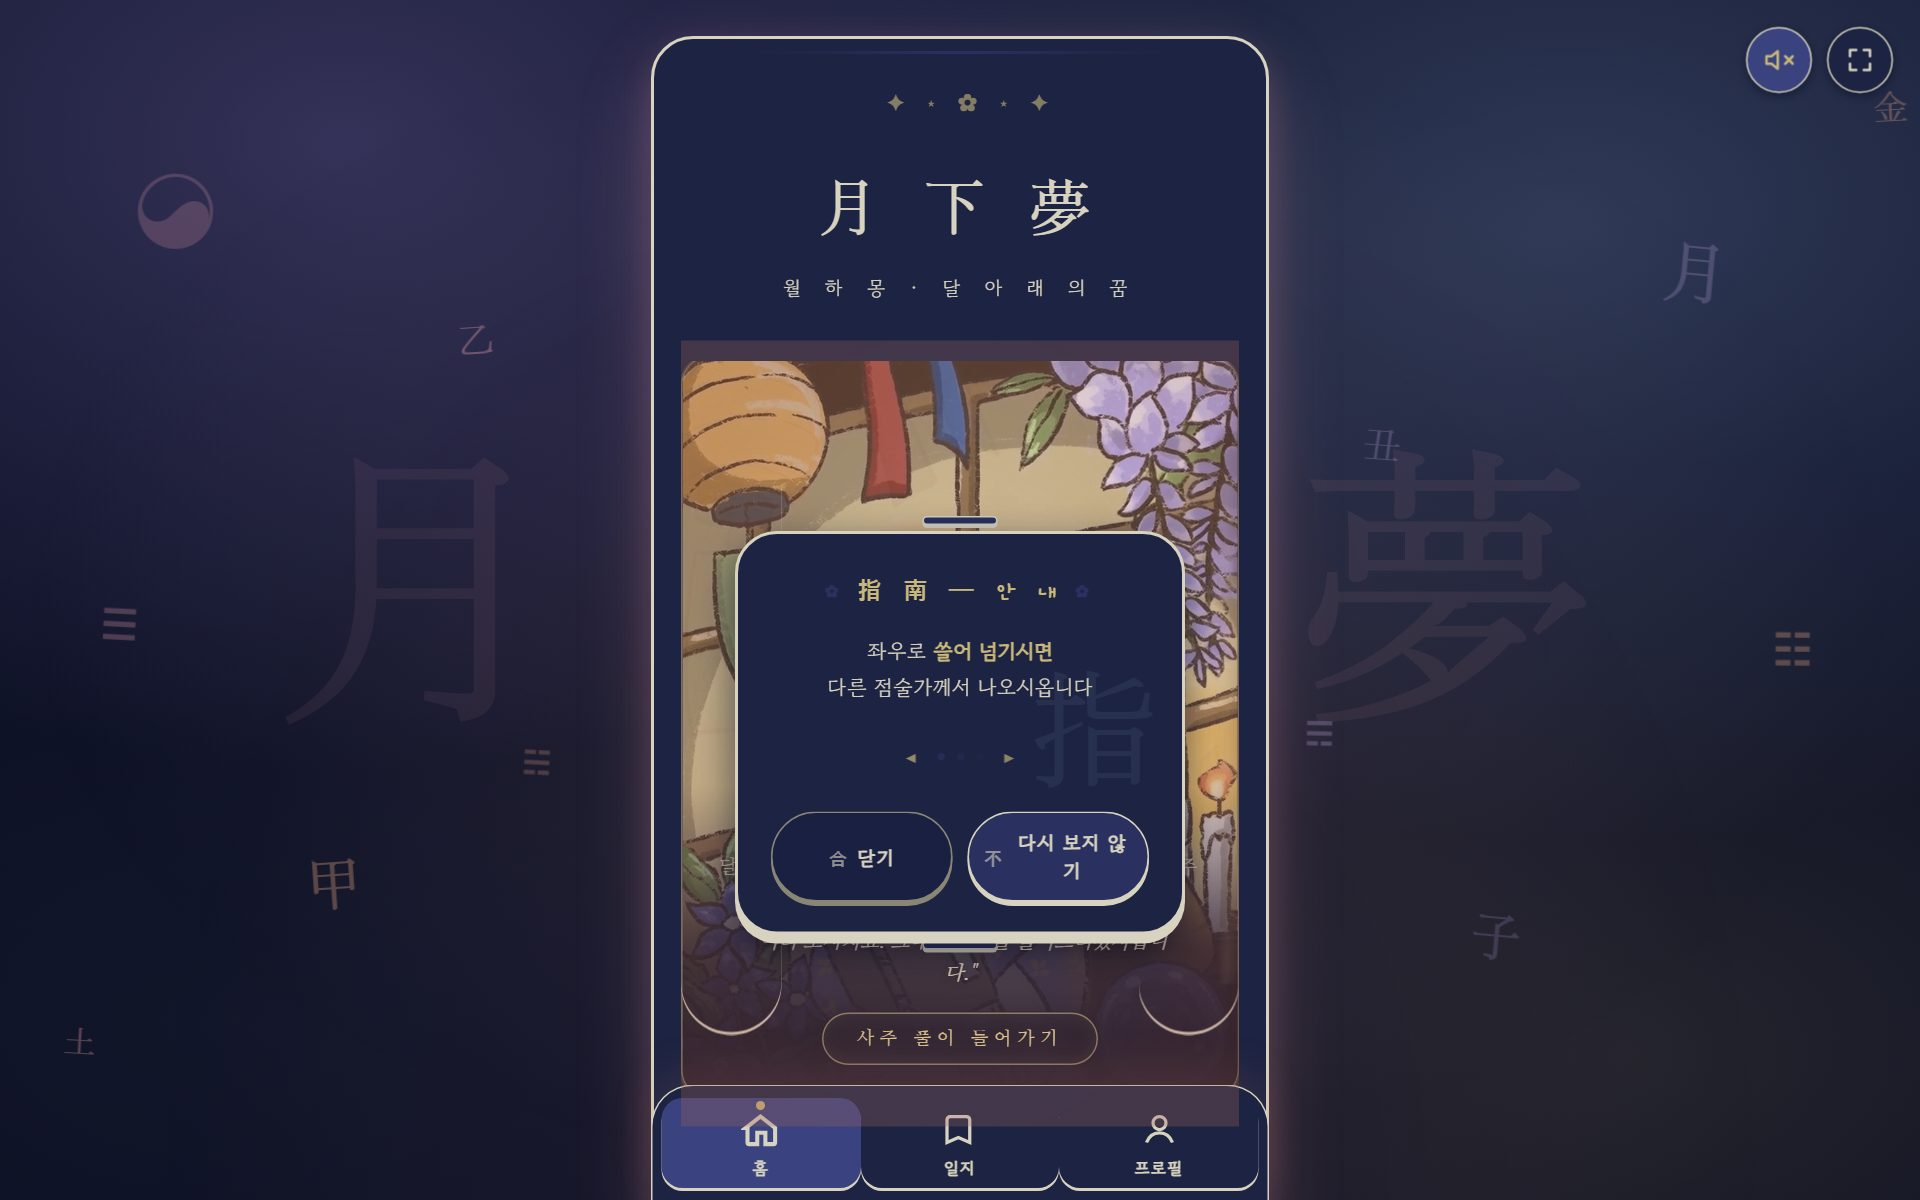
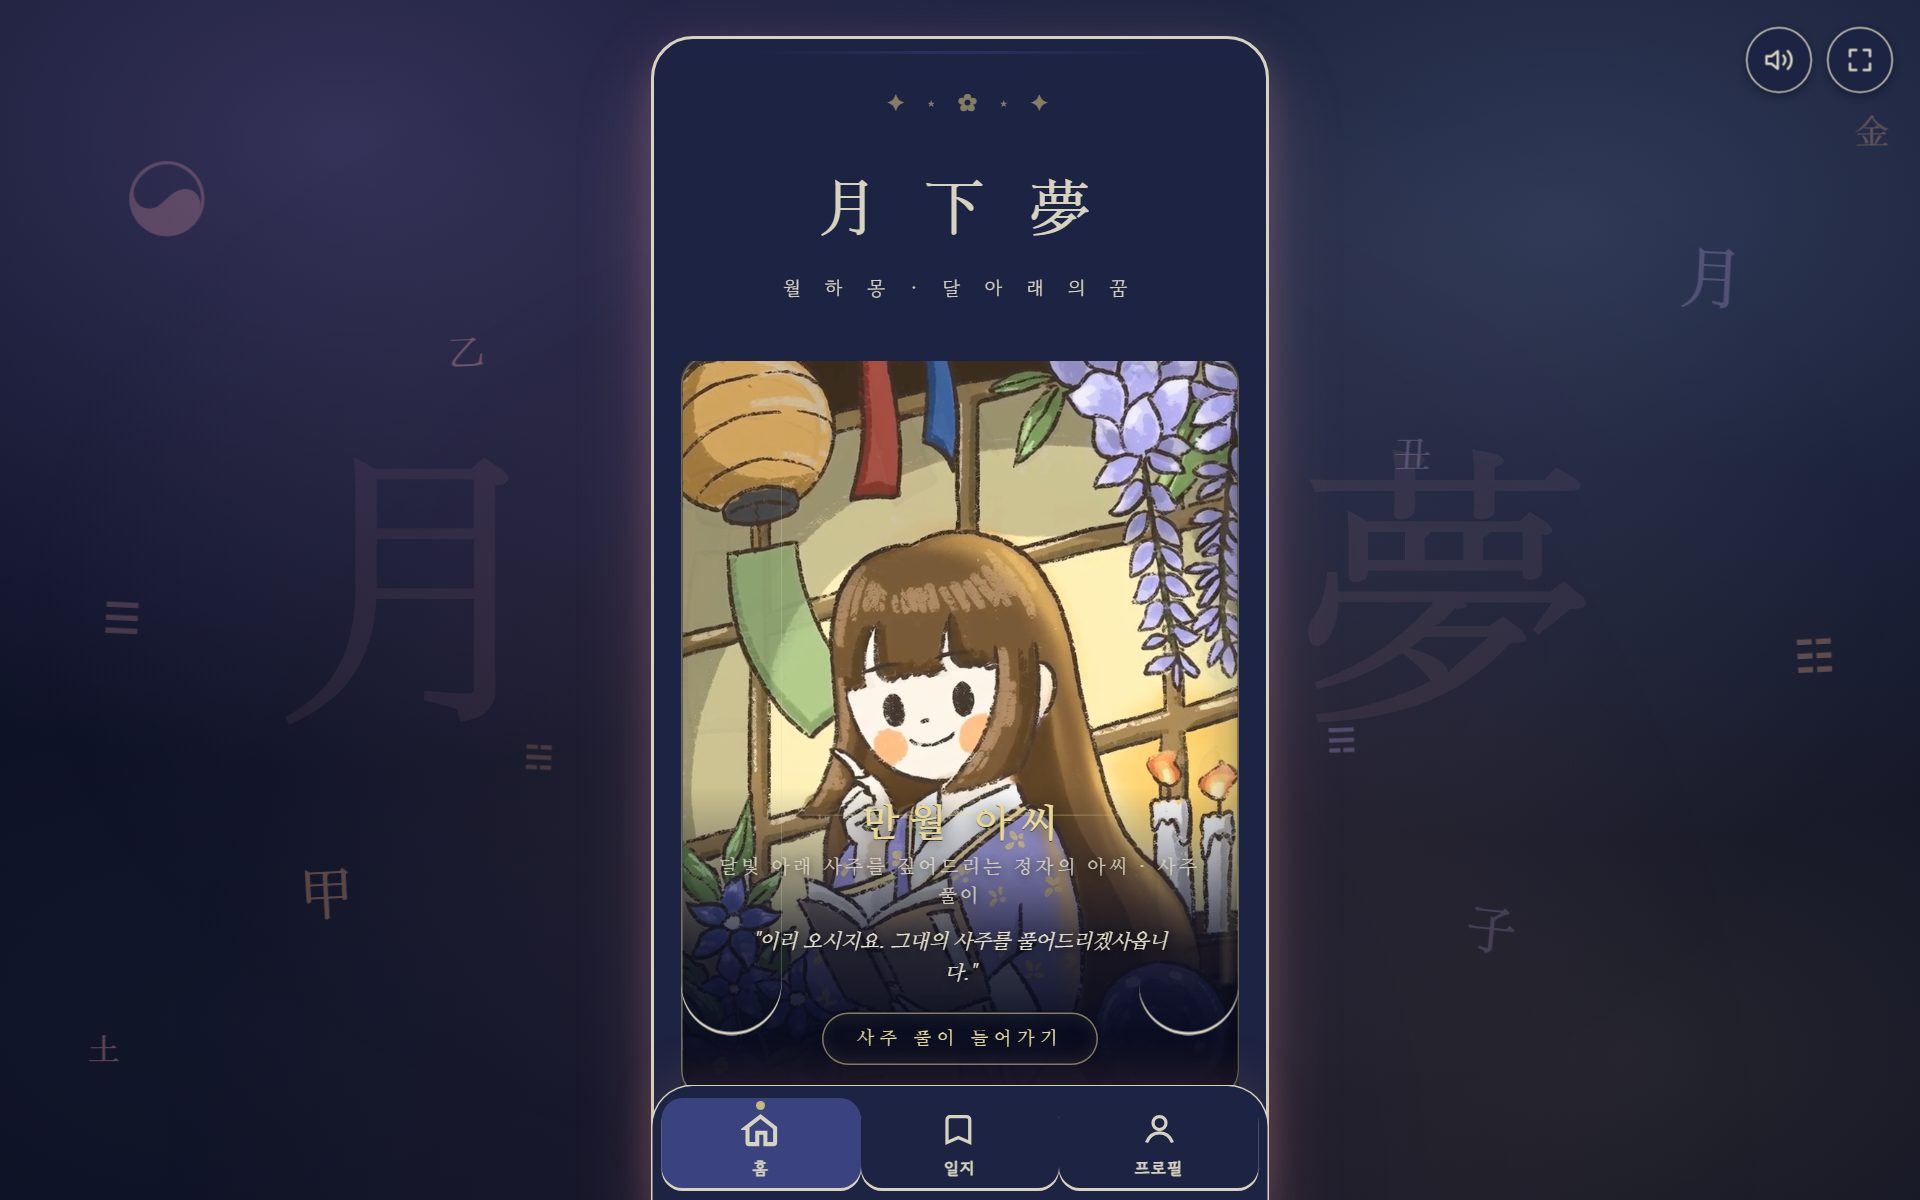
fix: 월하몽 썸네일 모달 제거 + 부트캠프 리드 줄바꿈
- wolha.jpg: 온보딩 안내 모달이 가린 화면 → 모달 닫고 메인 화면
  재촬영 (만월 아씨 일러스트 노출)
- sbcp 리드 문장: "라이브로 가동 중이며," 뒤 줄바꿈으로 가독성 개선

diff --git a/index.html b/index.html
@@ -676,7 +676,7 @@
   <section class="slide" id="sbcp">
     <div class="kicker rise">Bootcamp Projects · KDT HDC랩스</div>
     <h2 class="rise">부트캠프 실증 프로젝트</h2>
-    <p class="lead rise" style="max-width:760px">AI 부트캠프 과정에서 직접 기획·개발·배포한 프로젝트입니다. 모두 <strong>라이브로 가동 중</strong>이며, 실시간 데이터·AI 모델·풀스택 구현 역량을 작동하는 결과물로 보여줍니다.</p>
+    <p class="lead rise" style="max-width:760px">AI 부트캠프 과정에서 직접 기획·개발·배포한 프로젝트입니다. 모두 <strong>라이브로 가동 중</strong>이며,<br>실시간 데이터·AI 모델·풀스택 구현 역량을 작동하는 결과물로 보여줍니다.</p>
     <div class="bcp-grid rise">
       <div class="bcp-card">
         <div class="thumb"><img src="assets/shots/sdot.jpg" alt="S-DoT 서울 스마트시티 대시보드 화면" loading="lazy"></div>